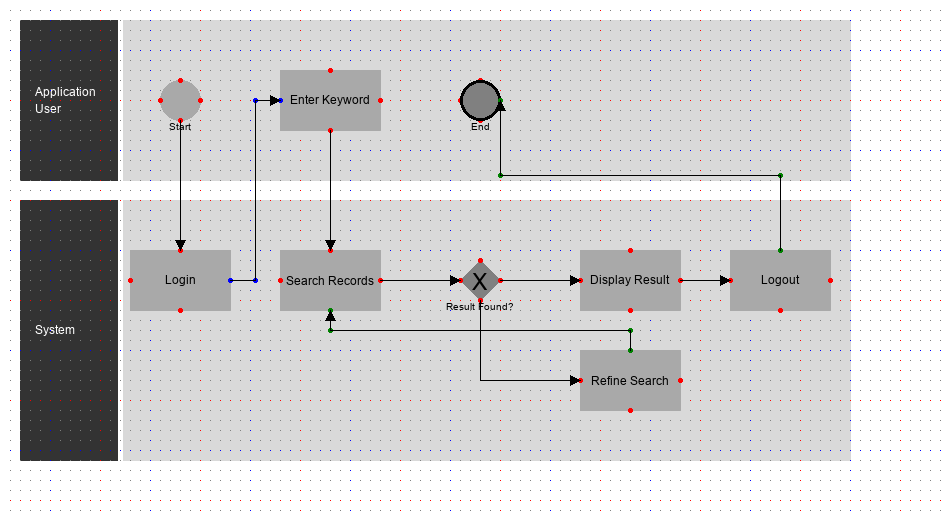
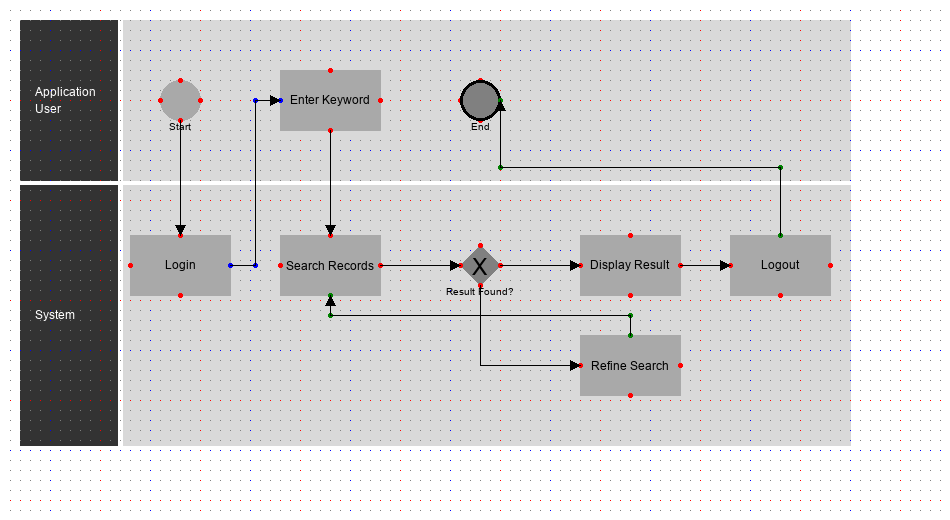
updated test code and output

diff --git a/src/test_processmapper.py b/src/test_processmapper.py
@@ -39,14 +39,11 @@ def test_case2():
 
         start.connect(login).connect(enter_keyword).connect(search_records).connect(
             result_found
-        )
-        result_found.connect(display_result)
-        display_result.connect(logout).connect(end)
+        ).connect(display_result).connect(logout).connect(end)
         result_found.connect(refine_search).connect(search_records)
 
         my_process_map.draw()
         my_process_map.save("my_process_map_test_case02.png")
-    # my_process_map.print()
 
 
 if __name__ == "__main__":
